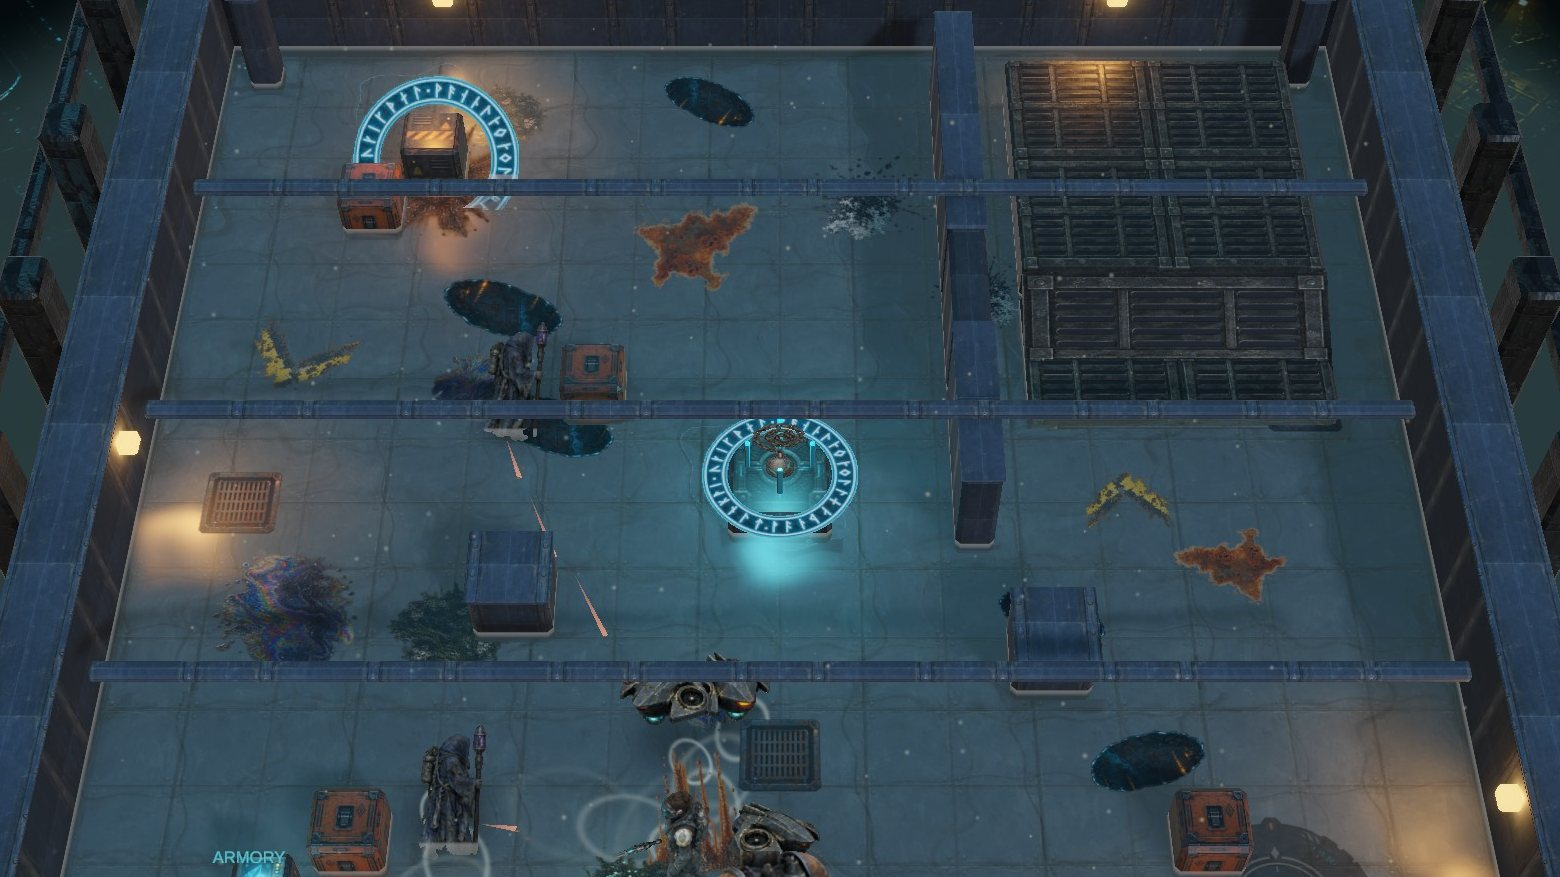
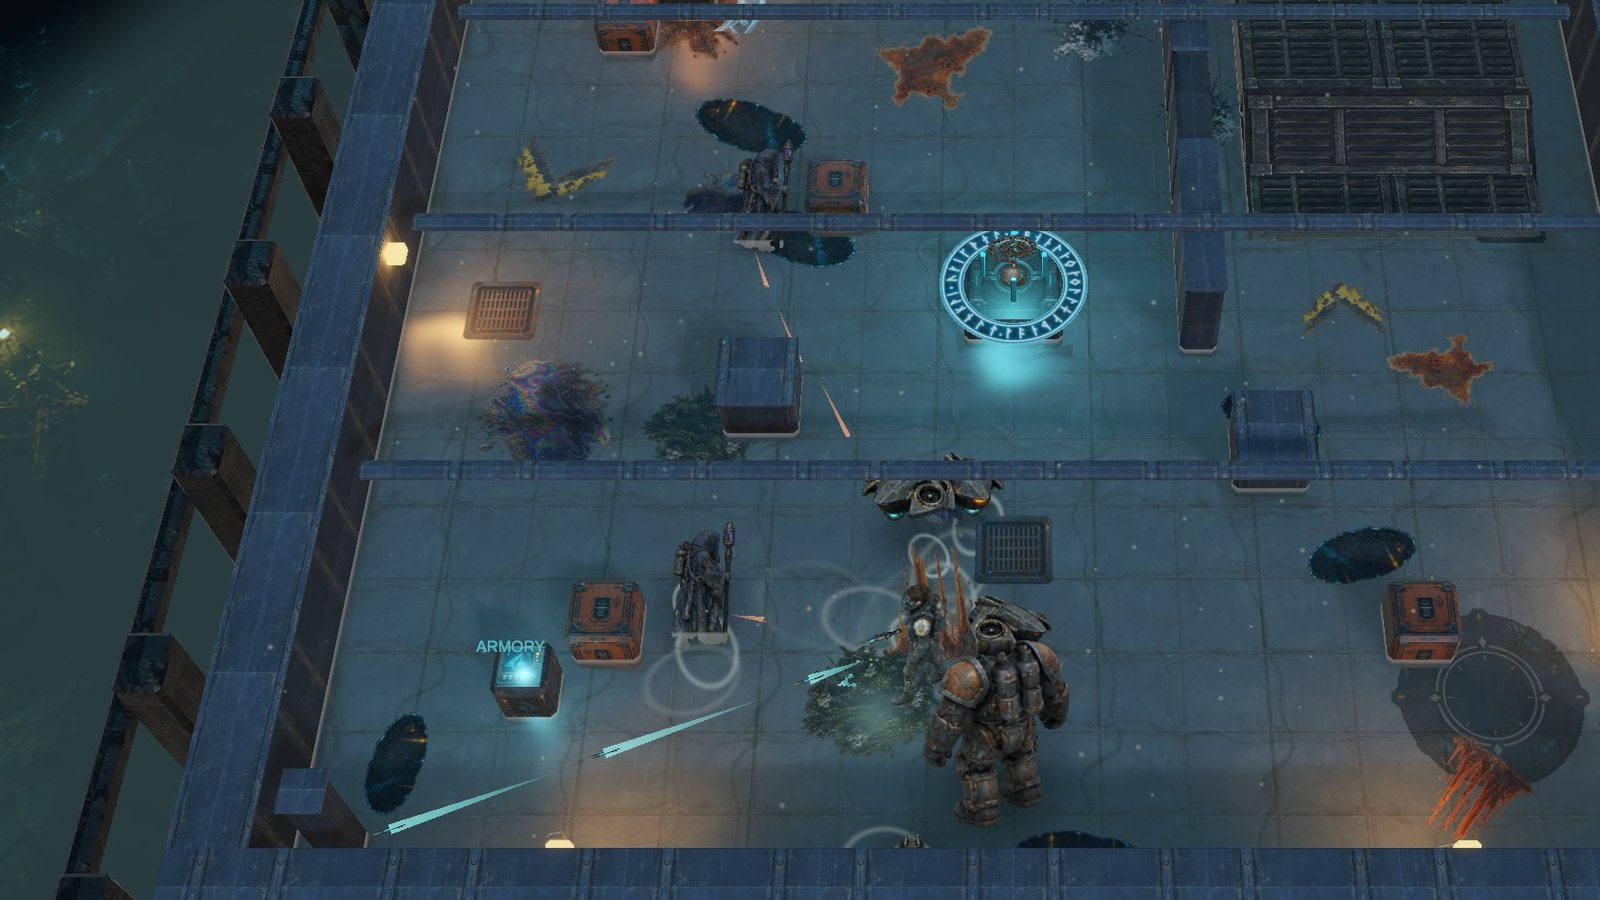
Frame the hero on the firefight

diff --git a/docs/styles.css b/docs/styles.css
@@ -51,7 +51,7 @@ header, main, footer { position: relative; z-index: 1; }
 /* Hero: real gameplay, full bleed, text column on a left-weighted scrim. */
 .hero { position: relative; min-height: min(92vh, 900px); display: flex; flex-direction: column; overflow: hidden; isolation: isolate; }
 .hero-bg { position: absolute; inset: 0; z-index: -1; }
-.hero-bg img { width: 100%; height: 100%; object-fit: cover; object-position: 58% 88%; }
+.hero-bg img { width: 100%; height: 100%; object-fit: cover; object-position: 70% 50%; }
 .hero::after {
   content: ""; position: absolute; inset: 0; z-index: -1;
   background:

diff --git a/docs/index.html b/docs/index.html
@@ -39,7 +39,7 @@
 <header class="hero" aria-labelledby="h1">
   <picture class="hero-bg">
     <source srcset="assets/hero.webp" type="image/webp">
-    <img src="assets/hero.jpg" width="1560" height="877" alt="" fetchpriority="high">
+    <img src="assets/hero.jpg" width="1600" height="900" alt="" fetchpriority="high">
   </picture>
   <div class="wrap top">
     <a class="brand" href="./" aria-label="Rán's Wake home">
